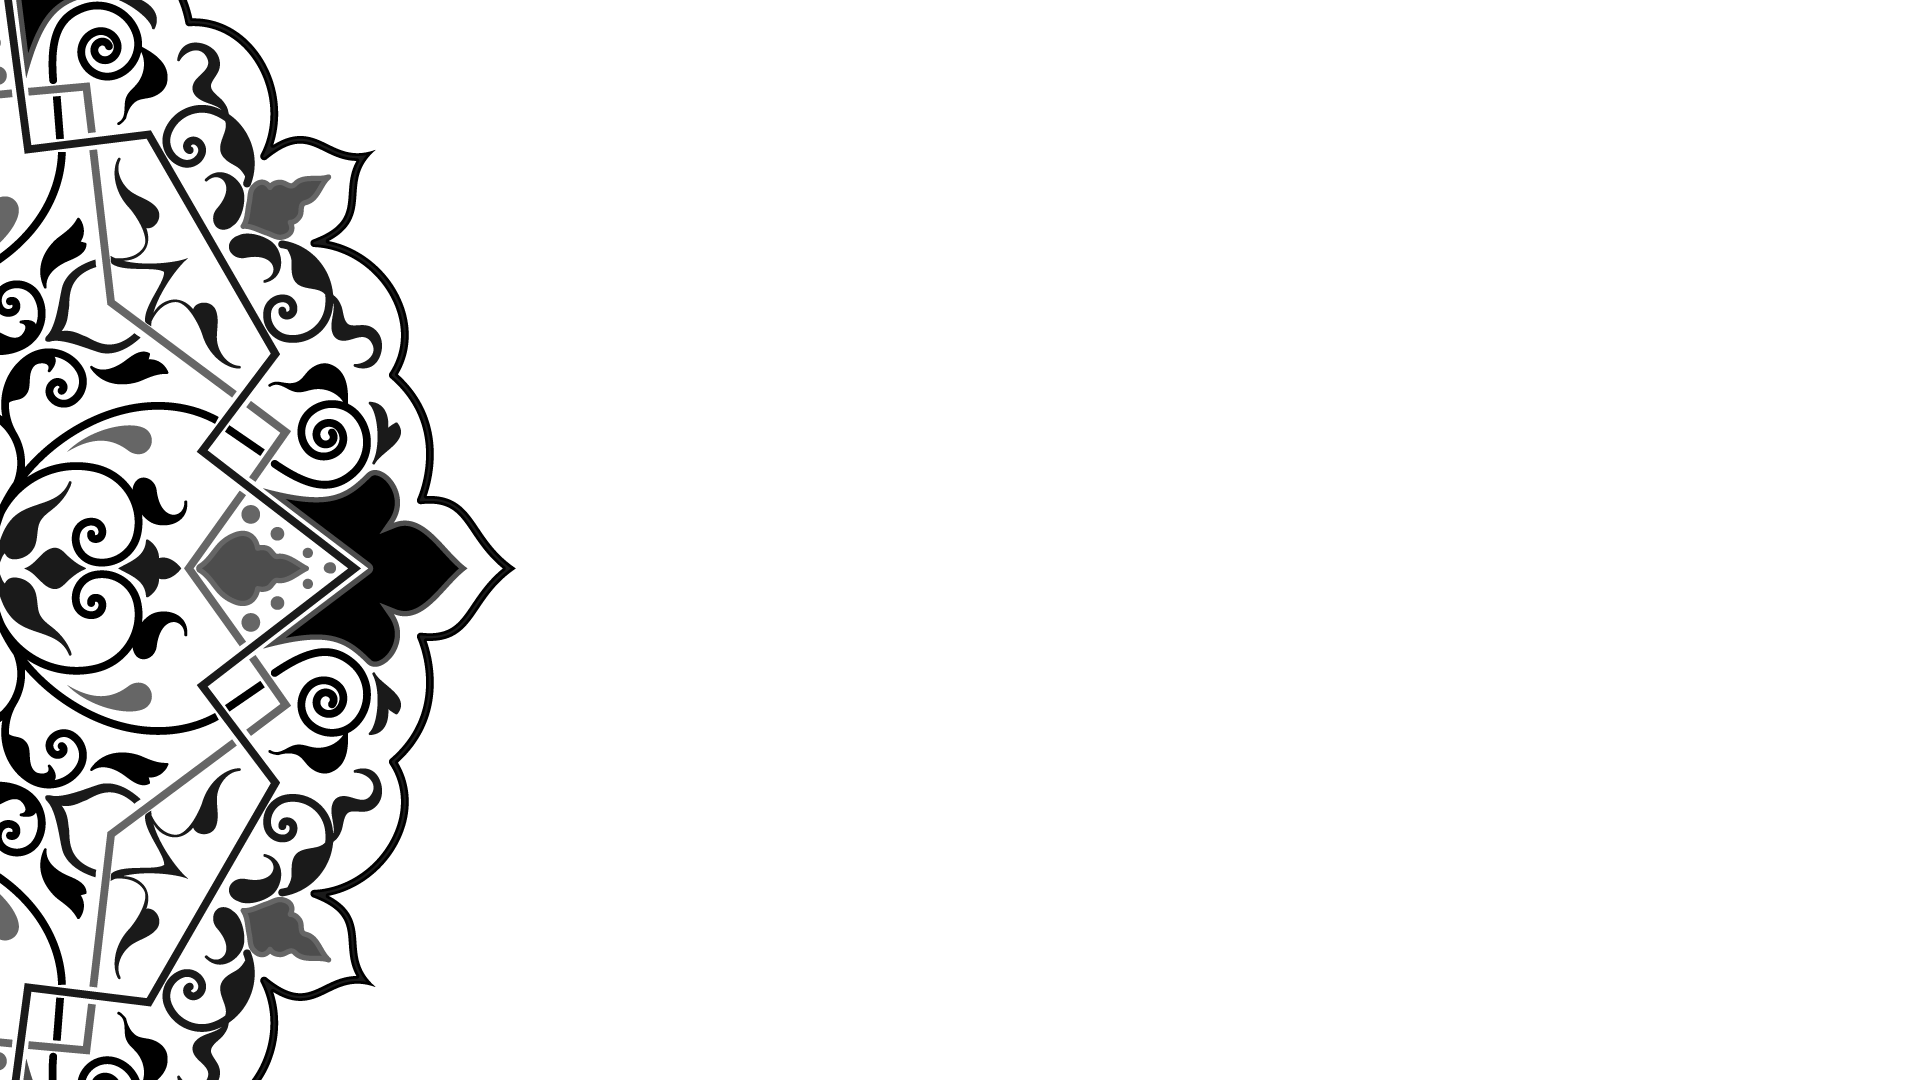
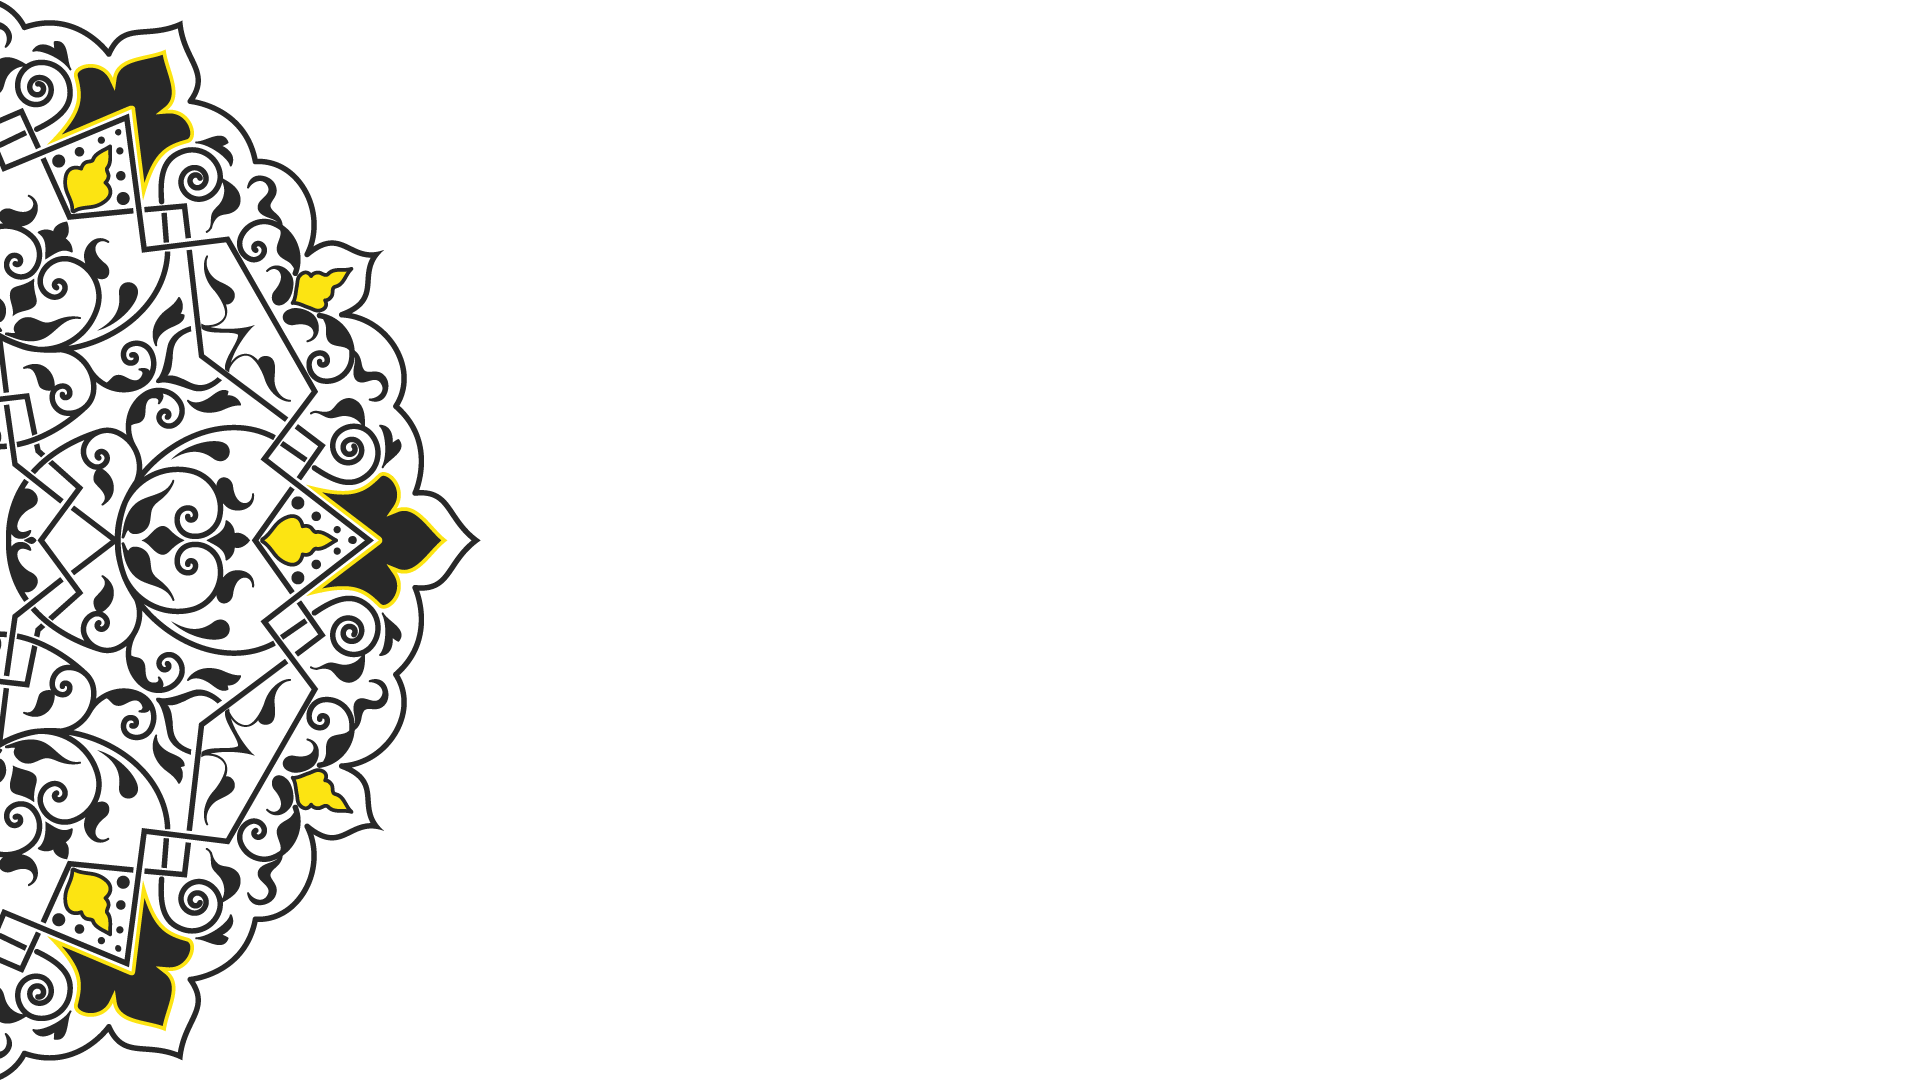
sd

Changed region(s): [[0.0, 0.0, 0.2812, 1.0]]

diff --git a/views/about.html b/views/about.html
@@ -1,20 +1,45 @@
 <div class="wrapper">
-		<div class="header header-filter" style="background-image: url('assets/img/examples/city.jpg');"></div>
+	<div class="header header-filter" style="background-image: url('assets/img/examples/city.jpg');"></div>
 
-		<div class="main main-raised">
-			<div class="profile-content">
-	            <div class="container">
-	                <div class="row">
-	                </div>
-	                
-                        <h2 class="title">We're currently making some improvements — Check back soon. </h2>
+	<div class="main main-raised">
+		<div class="profile-content">
+			<div class="container">
+				<div class="row">
 
-					<div class="row">
-						
-	                </div>
-
-	            </div>
-	        </div>
+					<div class="section">
+						<div class="row">
+							<div class="col-md-8">
+								<h2 class="title Hairline">Our Vision</h2>
+								<p><strong>Peace</strong> and <strong>fulfilment</strong> of humankind's potential. To</p>
+								<p> achieve this we seek to engage and empower every young person.</p>
+							</div>
+							<div class="col-md-offset-8">
+								<iframe class="box-shadow-wide" width="460" height="215" src="https://www.youtube.com/embed/IDJQOJCFPng" frameborder="0" allow="autoplay; encrypted-media" allowfullscreen></iframe>
+							</div>
+						</div>
+					</div>
+				</div>
+			</div>
+		</div>
+		<div class="section">
+			<div class="blueBg bgSection3b">
+				<br>
+				<div class="col-md-1">
+					<iframe class="box-shadow-wide" width="560" height="315" src="https://www.youtube.com/embed/JtfpuAmgSy8" frameborder="0" allow="autoplay; encrypted-media" allowfullscreen></iframe>
+				</div>
+				<div class="col-md-offset-8 white">
+					<h1>1,000,000+</h1>
+					<p>USERS WORLDWIDE</p>
+				</div>
+				<div class="col-md-offset-8 white">
+					<h1>2,400</h1>
+					<p>UNIVERSITIES REPRESENTED</p>
+				</div>
+				<div class="col-md-offset-8 white">
+					<h1>2,400</h1>
+					<p>UNIVERSITIES REPRESENTED</p>
+				</div>
+			</div>
 		</div>
 
-    </div>
+	</div>

diff --git a/assets/css/style.css b/assets/css/style.css
@@ -16,12 +16,18 @@
 .blue{
     color: #037ef3;
 }
+.blueBg{
+  background-color: #037ef3;
+}
 
 .red{
   color: #ff0000;
 }
 .green{
   color: #006838;
+}
+.white{
+  color: #fff;
 }
 
 .border{
@@ -42,6 +48,9 @@
 .bgSection3{
   background-image: url(../img/bg/bg3.png);
 }
+.bgSection3b{
+  background-image: url(../img/bg/bg3b.png);
+}
 .bgSection4{
   background-image: url(../img/bg/bg4.png);
 }
@@ -52,6 +61,18 @@
     src: url(../font/Lato-Hairline.ttf);
 }
 
+@font-face {
+    font-family: Lato;
+    src: url(../font/Lato-Light.ttf);
+}
+
+.Lato{
+  font-family: Lato;
+}
+
+h2{
+  margin-bottom: 0.78787878787879em;
+}
 @font-face {
   font-family: Rail;
   src: url(../font/Third-Rail-Demo.ttf);
@@ -170,7 +191,7 @@
 
 /* card-header_overlay */
 .card-header_overlay {
-	background-color: rgba(2,179,228,0.4);
+	background-color: rgba(252,228,18,0.4);
 	border-top-left-radius: 6px;
 	border-top-right-radius: 6px;
 	height: 9.75rem;
@@ -231,4 +252,9 @@
 .card-affiliates ul li img {
 	height: 36px;
     margin: -7px 0 0;
+}
+
+
+.box-shadow-wide {
+    box-shadow: 0 20px 40px rgba(0, 0, 0, 0.2);
 }

diff --git a/views/home.html b/views/home.html
@@ -24,7 +24,7 @@
 
 	<div class="main main-raised">
 
-		<div class="section text-center section-landing border bg5">
+		<div class="section section-landing border bg5">
 			<div class="row">
 				<div class="col-md-8 col-md-offset-2">
 					<h1 class="title"><strong class="">Story</strong></h1>
